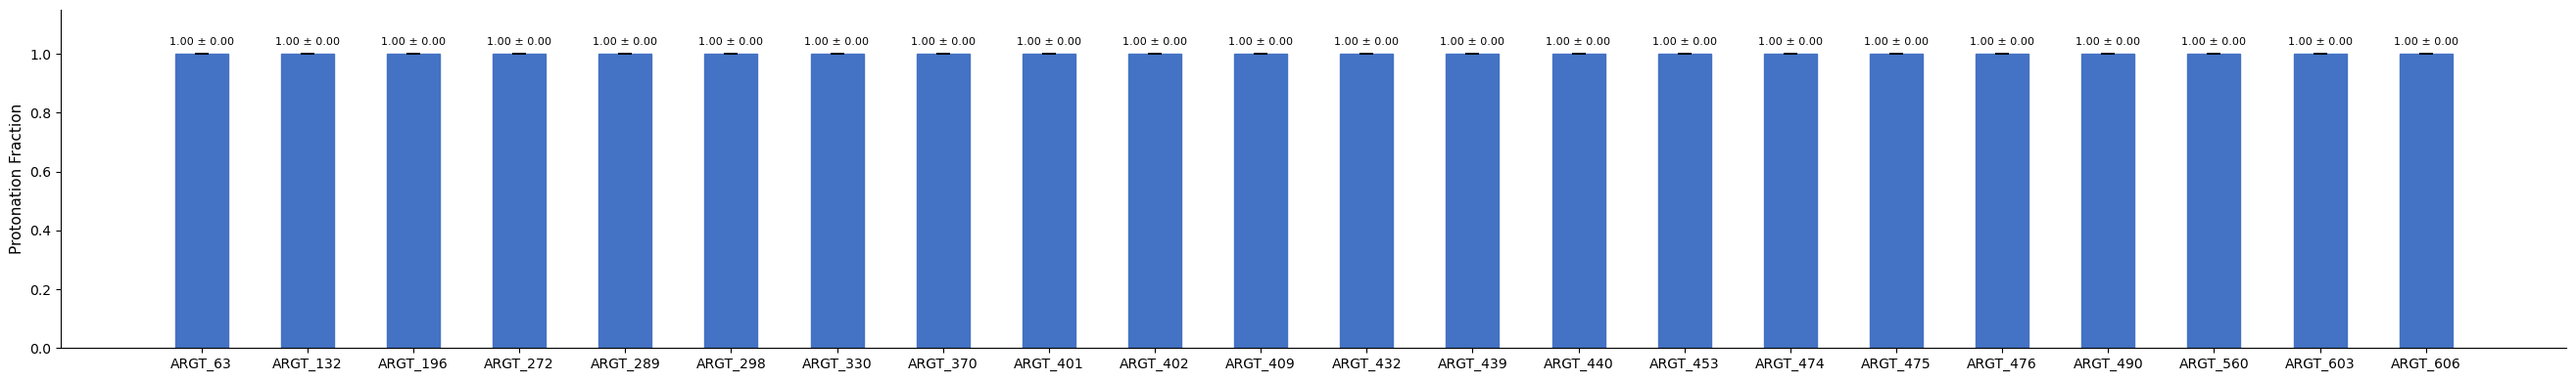
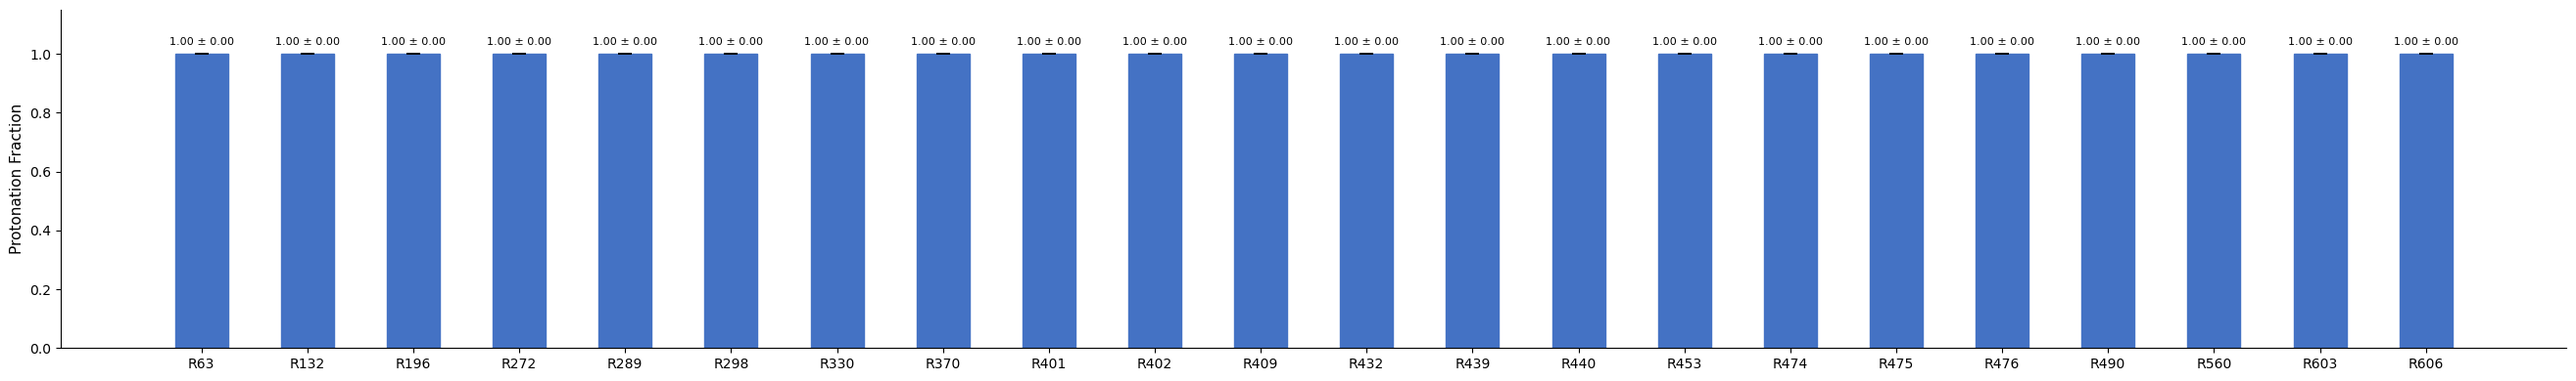
Improved labeling and added one letter option

Changed region(s): [[0.0624, 0.9231, 0.9665, 0.9846]]

diff --git a/plot.py b/plot.py
@@ -4,6 +4,28 @@ import copy
 from collections import OrderedDict
 
 
+def _display_resname(resname, single_letter=False):
+    """Clean residue name for publication labels: strip trailing T, HSP -> HIS, title case.
+    If single_letter=True, convert to one-letter amino acid code.
+    """
+    name = resname.rstrip("T")
+    if name == "HSP":
+        name = "HIS"
+    name = name[0] + name[1:].lower()
+
+    if single_letter:
+        one_letter_map = {
+            "Arg": "R",
+            "Lys": "K",
+            "Glu": "E",
+            "Asp": "D",
+            "His": "H",
+        }
+        return one_letter_map.get(name, name)
+
+    return name
+
+
 def _group_coordids_by_resname(coordids, lambda_ref):
     """Group coordids by their three-letter residue name.
 
@@ -17,7 +39,7 @@ def _group_coordids_by_resname(coordids, lambda_ref):
     return groups
 
 
-def plot_lambda_hist(xvg_data, coord2lambda_dict, lambda_ref, rows=20, cols=5, quality='Debug'):
+def plot_lambda_hist(xvg_data, coord2lambda_dict, lambda_ref, rows=20, cols=5, quality='Debug',single_letter=False):
     """Plot histogram of lambda values"""
     # Set up the grid size
     # Create a figure with subplots
@@ -51,14 +73,14 @@ def plot_lambda_hist(xvg_data, coord2lambda_dict, lambda_ref, rows=20, cols=5, q
                 data = xvg_data[coordid]
                 ax.hist(data[:, 1], bins=500)
                 ax.set_xlim(-0.125, 1.125)
-                
+
                 # Decide whether to use residue name or coordid in title
                 if quality == 'Debug':
                     ax.set_title(
                         f'coord_{coordid}-lambda_{coord2lambda_dict[coordid]}')
                 elif quality == 'Publication':
-                    ax.set_title(
-                        f'{lambda_ref.iloc[coordid-1]["resname"]}_{lambda_ref.iloc[coordid-1]["resid"]}')
+                    rn = _display_resname(lambda_ref.iloc[coordid-1]["resname"], single_letter)
+                    ax.set_title(f'{rn}{lambda_ref.iloc[coordid-1]["resid"]}')
             else:
                 continue
 
@@ -71,7 +93,7 @@ def plot_lambda_hist(xvg_data, coord2lambda_dict, lambda_ref, rows=20, cols=5, q
     return plt
 
 
-def plot_protonation_timeseries(time, xvg_data, coord2lambda_dict, lambda_ref, rows=20, cols=5, quality='Debug', npz_output=False):
+def plot_protonation_timeseries(time, xvg_data, coord2lambda_dict, lambda_ref, rows=20, cols=5, quality='Debug', npz_output=False, single_letter=False):
     """"Plot protonation time-series"""
     # Set up the grid size
     # Create a figure with subplots
@@ -142,8 +164,8 @@ def plot_protonation_timeseries(time, xvg_data, coord2lambda_dict, lambda_ref, r
                     ax.set_title(
                         f'coord_{coordid}-lambda_{coord2lambda_dict[coordid]}')
                 elif quality == 'Publication':
-                    ax.set_title(
-                        f'{lambda_ref.iloc[coordid-1]["resname"]}_{lambda_ref.iloc[coordid-1]["resid"]}')
+                    rn = _display_resname(lambda_ref.iloc[coordid-1]["resname"], single_letter)
+                    ax.set_title(f'{rn}{lambda_ref.iloc[coordid-1]["resid"]}')
 
             else:
                 continue
@@ -156,7 +178,7 @@ def plot_protonation_timeseries(time, xvg_data, coord2lambda_dict, lambda_ref, r
     return plt
 
 
-def plot_protonation_convergence(PATH_ANALYSIS, time, xvg_data_list: List[XVGData], coord2lambda_dict, lambda_ref, chain_mapping={}, rows=20, cols=5, quality='Debug'):
+def plot_protonation_convergence(PATH_ANALYSIS, time, xvg_data_list: List[XVGData], coord2lambda_dict, lambda_ref, chain_mapping={}, rows=20, cols=5, quality='Debug', single_letter=False):
     """Plot protonation avg and standard error time-series. Just two replicas supported - add get_protfrac_ts if more than 2"""
     # Set up the grid size
     # Create a figure with subplots
@@ -231,8 +253,9 @@ def plot_protonation_convergence(PATH_ANALYSIS, time, xvg_data_list: List[XVGDat
                     ax.set_title(
                         f'coord_{coordid}-lambda_{coord2lambda_dict[coordid]}')
                 elif quality == 'Publication':
-                    ax.set_title(
-                        f'{lambda_ref.iloc[coordid-1]["resname"]}_{lambda_ref.iloc[coordid-1]["resid"]}')
+                    rn = _display_resname(
+                        lambda_ref.iloc[coordid-1]["resname"], single_letter)
+                    ax.set_title(f'{rn}{lambda_ref.iloc[coordid-1]["resid"]}')
 
             else:
                 continue
@@ -246,7 +269,7 @@ def plot_protonation_convergence(PATH_ANALYSIS, time, xvg_data_list: List[XVGDat
 
 
 def plot_protonation_fraction(xvg_data_list: List[XVGData], lambda_ref,
-                              chain_mapping={}, npz_output=False):
+                              chain_mapping={}, npz_output=False, single_letter=False):
     """Plot protonation fractions, one figure per residue type.
     All residues of the same type are shown as bars on a single axis.
     """
@@ -283,7 +306,7 @@ def plot_protonation_fraction(xvg_data_list: List[XVGData], lambda_ref,
                 proton_avg, deproton_avg, proton_se, deproton_se = \
                     get_statistics(coordid, xvg_data_list, chain_mapping)
 
-            labels.append(f"{resname}_{resid}")
+            labels.append(str(resid))
             avgs.append(proton_avg)
             ses.append(proton_se)
 
@@ -303,8 +326,10 @@ def plot_protonation_fraction(xvg_data_list: List[XVGData], lambda_ref,
                      labels=[f"{a:.2f} ± {s:.2f}" for a, s in zip(avgs, ses)],
                      padding=5, fontsize=8)
 
+        display_name = _display_resname(resname, single_letter)
+        res_labels = [f"{display_name}{lid}" for lid in labels]
         ax.set_xticks(x)
-        ax.set_xticklabels(labels, fontsize=10)
+        ax.set_xticklabels(res_labels, fontsize=10)
         ax.set_ylabel("Protonation Fraction", fontsize=11)
         ax.set_ylim(0.0, 1.15)
         ax.set_yticks([0.0, 0.2, 0.4, 0.6, 0.8, 1.0])

diff --git a/run_analysis_template.py b/run_analysis_template.py
@@ -13,11 +13,14 @@ import cProfile
 
 RUN_TYPE = "Publication"  # Debug or Publication
 PLOT_TYPE = "Debug"  # Debug or Publication
+SINGLE_LETTER = True  # Use single-letter amino acid codes in labels
+PLOT_ROWS = 21  # Number of rows in the plot grid
+PLOT_COLS = 5  # Number of columns in the plot grid
+
 NPZ_OUTPUT = False  # True or False
 THREADS = 8  # Number of threads for parallel processing
 XVG_ROWS = 2000000  # Number of rows to read from the XVG files
-PLOT_ROWS = 21  # Number of rows in the plot grid
-PLOT_COLS = 5  # Number of columns in the plot grid
+
 # List of chains to analyze. Right now works for two chains only.
 CHAINS = None
 
@@ -113,13 +116,13 @@ def main():
         if CHAINS is not None:
             for chain in lambda_ref_chains.groups.keys():
                 lambda_hist = plot_lambda_hist(
-                    xvg_data_list[i], coord2lambda_dict, lambda_ref, rows=PLOT_ROWS, cols=PLOT_COLS)
+                    xvg_data_list[i], coord2lambda_dict, lambda_ref, rows=PLOT_ROWS, cols=PLOT_COLS, single_letter=SINGLE_LETTER)
                 lambda_hist.savefig(f"{title}_{chain}_histograms.png")
                 lambda_hist.close()
                 i += 1
         else:
             lambda_hist = plot_lambda_hist(
-                xvg_data_list[i], coord2lambda_dict, lambda_ref, rows=PLOT_ROWS, cols=PLOT_COLS)
+                xvg_data_list[i], coord2lambda_dict, lambda_ref, rows=PLOT_ROWS, cols=PLOT_COLS,  single_letter=SINGLE_LETTER)
             lambda_hist.savefig(f"{title}_histograms.png")
             lambda_hist.close()
             i += 1
@@ -131,13 +134,13 @@ def main():
         if CHAINS is not None:
             for chain in CHAINS:
                 proton_ts = plot_protonation_timeseries(
-                    time_MD1, xvg_data_list[i], coord2lambda_dict, lambda_ref, rows=PLOT_ROWS)
+                    time_MD1, xvg_data_list[i], coord2lambda_dict, lambda_ref, rows=PLOT_ROWS, single_letter=SINGLE_LETTER)
                 proton_ts.savefig(f"{title}_{chain}_timeseries.png")
                 proton_ts.close()
                 i += 1
         else:
             proton_ts = plot_protonation_timeseries(
-                time_MD1, xvg_data_list[i], coord2lambda_dict, lambda_ref, rows=PLOT_ROWS)
+                time_MD1, xvg_data_list[i], coord2lambda_dict, lambda_ref, rows=PLOT_ROWS, single_letter=SINGLE_LETTER)
             proton_ts.savefig(f"{title}_timeseries.png")
             proton_ts.close()
             i += 1
@@ -146,14 +149,14 @@ def main():
 
         # ## Protonation convergence
         proton_conv = plot_protonation_convergence(
-            PATHS_MD, min_time, xvg_data_list, coord2lambda_dict, lambda_ref, chain_mapping=mapping, rows=PLOT_ROWS, quality=PLOT_TYPE)
+            PATHS_MD, min_time, xvg_data_list, coord2lambda_dict, lambda_ref, chain_mapping=mapping, rows=PLOT_ROWS, quality=PLOT_TYPE,  single_letter=SINGLE_LETTER)
         proton_conv.savefig(f"{CONVERG_PREFIX}_convergence.png")
         proton_conv.close()
 
         # ## Overview protonation fractions
         figures = plot_protonation_fraction(
             xvg_data_list, lambda_ref, chain_mapping=mapping,
-            npz_output=NPZ_OUTPUT)
+            npz_output=NPZ_OUTPUT,  single_letter=SINGLE_LETTER)
         _save_figures(figures, f"{CONVERG_PREFIX}_protonfraction")
 
         # ## Sigle residue protonation fraction time series
